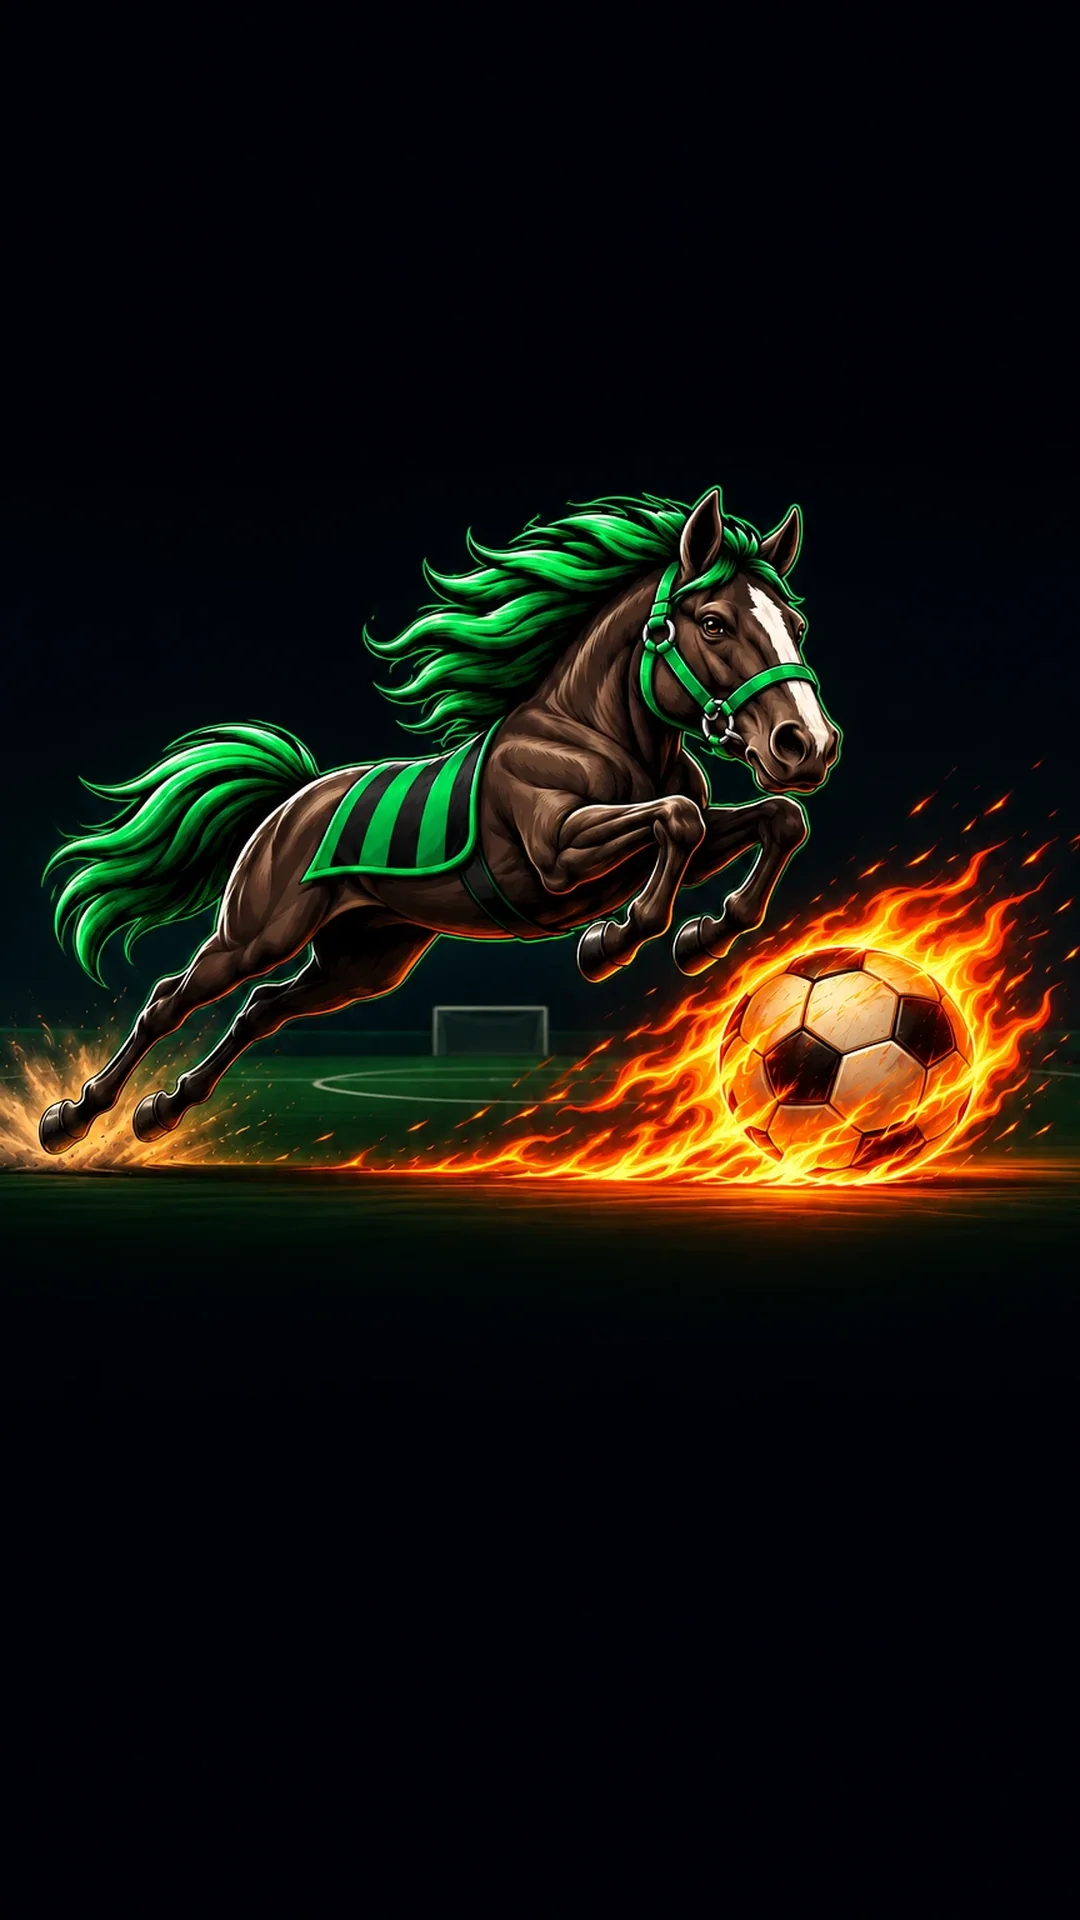
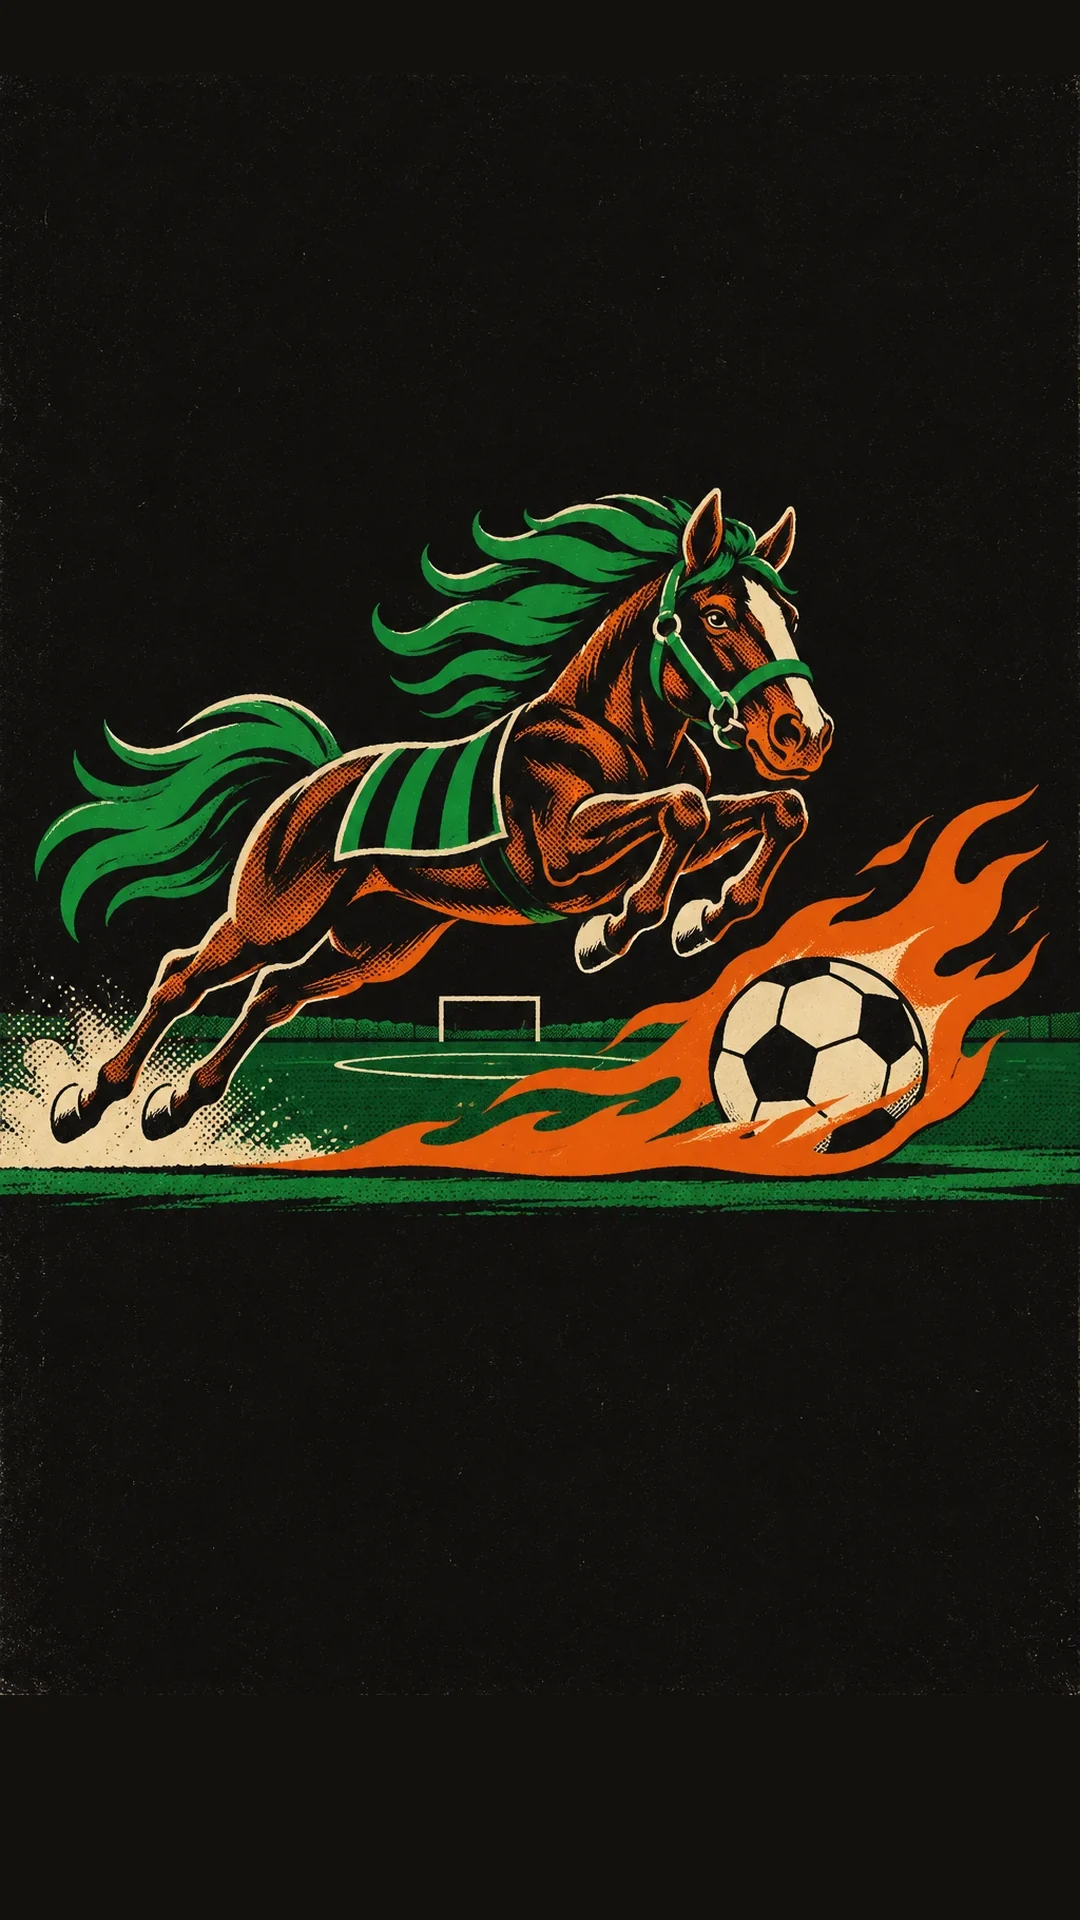
Scena di Fireball in stile manifesto e grana di stampa sulle storie
La scena è ora un manifesto da serigrafia (fumetto, quattro inchiostri).
prep_images.py porta le scene alla larghezza piena invece di tagliare i
lati, allineando il 25% dell'altezza come nel prompt, e riempie sopra e
sotto col colore del fondo. Sopra le storie con la scena una leggera
grana di stampa unisce scritte e disegno.

Claude-Session: https://claude.ai/code/session_01UdPjYnXkwNYmFhuSxKkHTG

diff --git a/storie.js b/storie.js
@@ -115,6 +115,18 @@
     g.addColorStop(.66,'rgba(0,0,0,.9)');g.addColorStop(1,'rgba(0,0,0,.97)');
     ctx.fillStyle=g;ctx.fillRect(0,0,W,H);
   }
+  // grana di stampa sopra tutta la storia: scritte e disegno sembrano usciti dalla stessa serigrafia
+  var trama=null;
+  function grana(){
+    if(!trama){
+      var t=document.createElement('canvas');t.width=t.height=256;
+      var c=t.getContext('2d'),d=c.createImageData(256,256);
+      for(var i=0;i<d.data.length;i+=4){var v=Math.random()*255;d.data[i]=d.data[i+1]=d.data[i+2]=v;d.data[i+3]=255}
+      c.putImageData(d,0,0);trama=ctx.createPattern(t,'repeat');
+    }
+    ctx.save();ctx.globalCompositeOperation='overlay';ctx.globalAlpha=.16;
+    ctx.fillStyle=trama;ctx.fillRect(0,0,W,H);ctx.restore();
+  }
   // titolone sopra la scena: un'ombra lo stacca dai punti chiari dell'illustrazione
   function titoloSuScena(testo,y){
     ctx.save();ctx.shadowColor='rgba(0,0,0,.75)';ctx.shadowBlur=30;
@@ -187,6 +199,7 @@
     fascia(1536);
     scritta(giorno.format(p.inizio).toUpperCase(),W/2,1622,'700 {} '+TITOLO,68,BIANCO,960,3);
     scritta('ORE '+ora.format(p.inizio)+' · BEINASCO',W/2,1694,'900 {} '+TITOLO,60,ERBA,960,3);
+    grana();
   }
 
   function esitoDi(p){return p.gf>p.gs?'VITTORIA':p.gf<p.gs?'SCONFITTA':'PAREGGIO'}
@@ -206,6 +219,7 @@
       ctx.fillStyle=BIANCO;
       righe.forEach(function(r,k){ctx.fillText(r,W/2,1645+k*(dim+12))});
     }
+    grana();
   }
 
   function fotofinish(p,img){

diff --git a/index.html b/index.html
@@ -7,14 +7,14 @@
 <meta name="description" content="Horto Muso, squadra di calcio a 5 della Mazzola Cup: rosa, calendario e foto di squadra.">
 <meta name="theme-color" content="#028947">
 <meta name="robots" content="noindex, nofollow">
-<meta name="versione" content="20261109230725">
+<meta name="versione" content="20261109231546">
 <link rel="icon" href="assets/logo-192.png" type="image/png">
 <link rel="apple-touch-icon" sizes="180x180" href="assets/apple-touch-icon.png">
 <meta name="apple-mobile-web-app-title" content="Horto Muso">
 <link rel="preconnect" href="https://fonts.googleapis.com">
 <link rel="preconnect" href="https://fonts.gstatic.com" crossorigin>
 <link rel="stylesheet" href="https://fonts.googleapis.com/css2?family=Big+Shoulders+Display:wght@700;900&family=Barlow:wght@400;600&display=swap">
-<link rel="stylesheet" href="style.css?v=20261109230725">
+<link rel="stylesheet" href="style.css?v=20261109231546">
 </head>
 <body>
 
@@ -353,7 +353,7 @@
   Horto Muso · Calcio a 5 · Mazzola Cup
 </footer>
 
-<script src="script.js?v=20261109230725" defer></script>
-<script src="aggiorna.js?v=20261109230725" defer></script>
+<script src="script.js?v=20261109231546" defer></script>
+<script src="aggiorna.js?v=20261109231546" defer></script>
 </body>
 </html>

diff --git a/storie.html b/storie.html
@@ -5,7 +5,7 @@
 <meta name="viewport" content="width=device-width, initial-scale=1, viewport-fit=cover">
 <title>Storie Instagram · Horto Muso</title>
 <meta name="robots" content="noindex, nofollow">
-<meta name="versione" content="20261109230725">
+<meta name="versione" content="20261109231546">
 <meta name="theme-color" content="#028947">
 <link rel="icon" href="assets/logo-192.png" type="image/png">
 <link rel="apple-touch-icon" sizes="180x180" href="assets/apple-touch-icon.png">
@@ -55,7 +55,7 @@ padding:.9rem 1rem;border-radius:6px;border:2px solid var(--verde);cursor:pointe
   <p class="stato" id="stato" role="status"></p>
   <p class="nota">Da telefono: tocca <b>Condividi</b> e scegli Instagram, poi Storia. Ricordati di taggare il Mazzola. Se Instagram non compare, tocca <b>Scarica</b> e carica l'immagine dal rullino.</p>
 </main>
-<script src="storie.js?v=20261109230725" defer></script>
-<script src="aggiorna.js?v=20261109230725" defer></script>
+<script src="storie.js?v=20261109231546" defer></script>
+<script src="aggiorna.js?v=20261109231546" defer></script>
 </body>
 </html>

diff --git a/tools/prep_images.py b/tools/prep_images.py
@@ -101,12 +101,18 @@ if mazzola.exists():
     tondo.save(out / "mazzola.webp", quality=90, method=6)
     print("mazzola", tondo.size)
 
-# --- Scene delle storie (Gran Premio / Fotofinish): verticali 1080x1920, ritagliate al centro se il formato è diverso ---
+# --- Scene delle storie (Gran Premio / Fotofinish): verticali 1080x1920 ---
+# Le scene di ChatGPT sono 2:3: le porto alla larghezza piena senza tagliare i lati, con la riga al 25%
+# dell'altezza allineata al 25% della storia (dove il prompt fa iniziare il soggetto), e riempio sopra e sotto
+# col colore del fondo della scena.
 for sorgente in sorted((src / "scene").glob("*.png")) if (src / "scene").exists() else []:
     sc = Image.open(sorgente).convert("RGB")
-    k = max(1080 / sc.width, 1920 / sc.height)
-    sc = sc.resize((round(sc.width * k), round(sc.height * k)), Image.LANCZOS)
-    x, y = (sc.width - 1080) // 2, (sc.height - 1920) // 2
+    k = 1080 / sc.width
+    sc = sc.resize((1080, round(sc.height * k)), Image.LANCZOS)
+    a = np.asarray(sc)
+    fondo = tuple(int(v) for v in np.median(np.concatenate([a[:8].reshape(-1, 3), a[-8:].reshape(-1, 3)]), axis=0))
+    tela = Image.new("RGB", (1080, 1920), fondo)
+    tela.paste(sc, (0, round(1920 * .25 - sc.height * .25)))
     (out / "scene").mkdir(exist_ok=True)
-    sc.crop((x, y, x + 1080, y + 1920)).save(out / "scene" / f"{sorgente.stem}.webp", quality=84, method=6)
-    print("scena", sorgente.stem, sc.size)
+    tela.save(out / "scene" / f"{sorgente.stem}.webp", quality=86, method=6)
+    print("scena", sorgente.stem, sc.size, "fondo", fondo)
